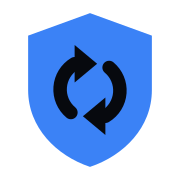
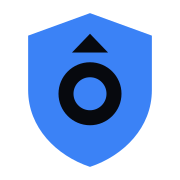
Switch brand mark to ring + ownership triangle (#C-flag)
Replaces the two-headed loop with the simpler shield + closed ring +
upward triangle above the ring. Triangle reads as a flag planted on the
loop, aligning the mark literally with "Own the loop" — the ownership
claim is the differentiator vs. enterprise sync/refresh icons.

- logo-shield.svg: ring (cx=12, cy=12.5, r=3.2) + triangle above with
  visible gap (base y=7, apex y=4.5)
- index.html nav SVG updated to match
- favicons regenerated
- BRAND.md §3.2 + CLAUDE.md §8 mark descriptions updated

Changed region(s): [[0.2778, 0.1944, 0.7222, 0.75]]

diff --git a/index.html b/index.html
@@ -603,10 +603,8 @@
   <a href="/" class="nav-logo">
     <svg class="nav-logo-mark" viewBox="0 0 24 24" fill="none" aria-hidden="true">
       <path d="M12 1.75 L20.25 4.75 V12 C20.25 17 16.5 20.75 12 22.25 C7.5 20.75 3.75 17 3.75 12 V4.75 Z" style="fill: var(--accent)"/>
-      <path d="M14.55 9.0 A4.0 4.0 0 0 1 14.05 15.5" stroke="#07090e" stroke-width="1.8" stroke-linecap="round"/>
-      <path d="M9.45 15.0 A4.0 4.0 0 0 1 9.95 8.5" stroke="#07090e" stroke-width="1.8" stroke-linecap="round"/>
-      <path d="M9.95 6.0 L12.95 8.5 L9.95 11.0 Z" fill="#07090e"/>
-      <path d="M14.05 13.0 L11.05 15.5 L14.05 18.0 Z" fill="#07090e"/>
+      <circle cx="12" cy="12.5" r="3.2" stroke="#07090e" stroke-width="2"/>
+      <path d="M9.6 7 L12 4.5 L14.4 7 Z" fill="#07090e"/>
     </svg>
     <span class="logo-own">own</span><span class="logo-evo">Evo</span>
   </a>

diff --git a/BRAND.md b/BRAND.md
@@ -78,14 +78,13 @@ Properties:
 
 ### 3.2 Mark — shield icon (`logo-shield.svg`)
 
-A solid blue shield containing a dark two-headed loop: two semicircular
-arcs, each ending in an arrowhead pointing into the next arc, with a small
-gap between tip and arc start. Combines both pillars in one glyph:
+A solid blue shield containing a dark closed ring with a small upward
+triangle floating above it. Combines both pillars in one glyph:
 
 - **Shield** = ownership / sovereignty / institutional protection.
-- **Two-headed loop** = the improvement cycle, continuously running.
-- **Gap before each arc** = the loop is *active*, not static — every
-  iteration leaves a discontinuity that the next cycle closes.
+- **Closed ring** = the improvement loop, continuous and self-contained.
+- **Triangle above** = a claim of ownership planted on top of the loop —
+  the loop is yours.
 
 Together, the mark reads as *"Own the loop"* — the brand's tagline rendered
 into a single glyph: a sovereign, continuously running, owned-by-you loop.
@@ -102,7 +101,7 @@ size or square aspect ratio:
 
 Two SVG variants are checked in:
 
-- `logo-shield.svg` — **filled** (blue shield, dark two-headed loop).
+- `logo-shield.svg` — **filled** (blue shield, dark ring + triangle above).
   Use for favicons, app icons, and any context with a non-brand background.
 - `logo-shield-outline.svg` — **outline only** with `currentColor`. Use inline
   on the site (nav, footer) so it adopts the site's accent color via CSS.

diff --git a/CLAUDE.md b/CLAUDE.md
@@ -188,10 +188,10 @@ new component pattern, the answer is almost always to reuse what's already
 there.
 
 The single accent color is `#3b82f6` (Tailwind blue-500). The brand mark is the shield
-SVG (ownership = shield silhouette, evolution = two-headed continuous loop
-inside — two arcs each ending in an arrowhead, with a gap before the next
-arc). The text wordmark in the nav is the **primary** brand expression on
-the web; the shield is supporting it, not replacing it.
+SVG (ownership = shield silhouette + ownership-flag triangle planted on top of
+the inner loop, evolution = the closed ring inside the shield). The text
+wordmark in the nav is the **primary** brand expression on the web; the
+shield is supporting it, not replacing it.
 
 ---
 
